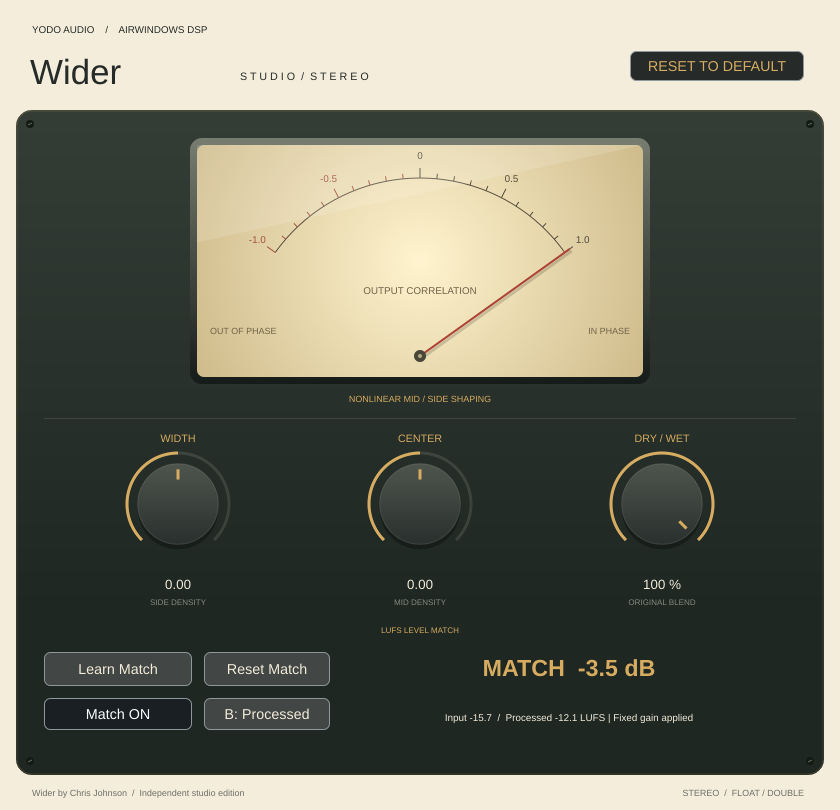
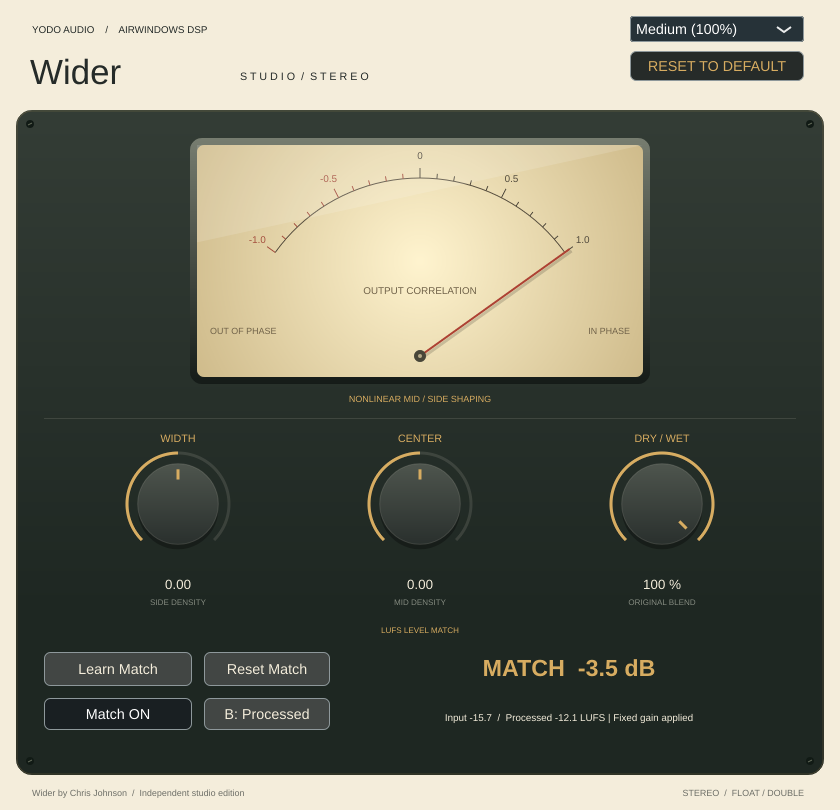
Add three session-persistent interface sizes

Changed region(s): [[0.7429, 0.0, 0.9595, 0.0617]]

diff --git a/tests/PluginChecks.cpp b/tests/PluginChecks.cpp
@@ -52,8 +52,8 @@ int main() {
     p->getParameters()[1]->setValueNotifyingHost(.5f);
     p->getParameters()[2]->setValueNotifyingHost(1.f);
     p->prepareToPlay(48000,512);
-    auto* learn=dynamic_cast<juce::Button*>(editor->findChildWithID("learnMatch"));
-    auto* reset=dynamic_cast<juce::Button*>(editor->findChildWithID("resetMatch"));
+    auto* learn=dynamic_cast<juce::Button*>(editor->getChildComponent(0)->findChildWithID("learnMatch"));
+    auto* reset=dynamic_cast<juce::Button*>(editor->getChildComponent(0)->findChildWithID("resetMatch"));
     if(!learn || !reset) return 10;
     learn->onClick();
     auto feed=[&](int blocks) {
@@ -107,7 +107,7 @@ int main() {
     if(!copy || std::abs(copy->getDoubleAttribute("matchDb")+3.521825)>.03) return 23;
     // Recreate the editor to verify the persisted adjustment is visible immediately.
     editor.reset(p->createEditor());
-    auto* display=dynamic_cast<juce::Label*>(editor->findChildWithID("matchReadout"));
+    auto* display=dynamic_cast<juce::Label*>(editor->getChildComponent(0)->findChildWithID("matchReadout"));
     if(!display || !display->getText().contains("-3.5 dB")) return 13;
     // Screenshot the real learned state before clearing it.
     juce::Image image(juce::Image::ARGB,editor->getWidth(),editor->getHeight(),true);
@@ -122,16 +122,16 @@ int main() {
     if(saved.getWidth()!=editor->getWidth() || saved.getHeight()!=editor->getHeight()) return 9;
     if(editor->getWidth()!=840 || editor->getHeight()!=810) return 5;
     int meters=0;
-    for(auto* child:editor->getChildren()) {
+    for(auto* child:editor->getChildComponent(0)->getChildren()) {
         if(child->getTitle().startsWith("Output correlation")) {
             ++meters;
             if(!editor->getLocalBounds().contains(child->getBounds())) return 6;
         }
     }
     if(meters!=1) return 7;
-    reset=dynamic_cast<juce::Button*>(editor->findChildWithID("resetMatch"));
+    reset=dynamic_cast<juce::Button*>(editor->getChildComponent(0)->findChildWithID("resetMatch"));
     reset->onClick();
-    auto* clearDisplay=dynamic_cast<juce::Label*>(editor->findChildWithID("matchReadout"));
+    auto* clearDisplay=dynamic_cast<juce::Label*>(editor->getChildComponent(0)->findChildWithID("matchReadout"));
     if(!clearDisplay || !clearDisplay->getText().contains("--")) return 19;
     feed(4);
     juce::MemoryBlock cleared; p->getStateInformation(cleared);
@@ -157,7 +157,7 @@ int main() {
     copy=juce::AudioProcessor::getXmlFromBinary(savedAgain.getData(),static_cast<int>(savedAgain.getSize()));
     if(copy->getBoolAttribute("hasMatch") || restored->getParameters()[4]->getValue()>.5f) return 17;
     int sliders=0;
-    for(auto* child:editor->getChildren()) if(auto* slider=dynamic_cast<juce::Slider*>(child)) {
+    for(auto* child:editor->getChildComponent(0)->getChildren()) if(auto* slider=dynamic_cast<juce::Slider*>(child)) {
         ++sliders;
         const bool mix=slider->getName()=="Dry / Wet";
         if(std::abs(slider->getMinimum()-(mix?0.:-1.))>1.e-6 || slider->getMaximum()!=1.) return 10;
@@ -167,9 +167,44 @@ int main() {
         if(std::abs(p->getParameters()[index]->getValue()-expected)>1.e-6f) return 11;
     }
     if(sliders!=3) return 12;
-    for(auto* child:editor->getChildren()) if(child->getComponentID()=="resetDefaults")
+    for(auto* child:editor->getChildComponent(0)->getChildren()) if(child->getComponentID()=="resetDefaults")
         if(auto* button=dynamic_cast<juce::TextButton*>(child)) button->onClick();
     for(auto* parameter:p->getParameters()) if(std::abs(parameter->getValue()-parameter->getDefaultValue())>1.e-6f) { std::cerr<<parameter->getName(40)<<": "<<parameter->getValue()<<" default "<<parameter->getDefaultValue()<<"\n"; return 25; }
+    // Exercise each size, render it, and recall the selection in a fresh processor.
+    auto* sizeChoice=dynamic_cast<juce::ComboBox*>(editor->getChildComponent(0)->findChildWithID("uiSize"));
+    if(!sizeChoice || sizeChoice->getNumItems()!=3 || sizeChoice->getSelectedId()!=2) return 26;
+    for(int id : {1,3,2}) {
+        sizeChoice->setSelectedId(id,juce::sendNotificationSync);
+        const float scale=id==1?.75f:id==3?1.25f:1.f;
+        const int width=juce::roundToInt(840*scale),height=juce::roundToInt(810*scale);
+        if(editor->getWidth()!=width || editor->getHeight()!=height) return 27;
+        auto* panel=editor->getChildComponent(0);
+        for(auto* child:panel->getChildren()) {
+            const auto bounds=editor->getLocalArea(panel,child->getBounds());
+            if(!editor->getLocalBounds().contains(bounds)) return 28;
+            const auto centre=editor->getLocalPoint(child,child->getLocalBounds().getCentre());
+            if(editor->getComponentAt(centre)==editor.get()) return 29;
+        }
+        juce::Image scaled(juce::Image::ARGB,width,height,true);
+        juce::Graphics graphics(scaled); editor->paintEntireComponent(graphics,true);
+        auto file=juce::File::getCurrentWorkingDirectory().getChildFile("ui-size-"+juce::String(id)+".png");
+        if(auto stream=file.createOutputStream()) {
+            stream->setPosition(0); stream->truncate();
+            if(!juce::PNGImageFormat().writeImageToStream(scaled,*stream)) return 30;
+        } else return 31;
+        juce::MemoryBlock sized; p->getStateInformation(sized);
+        restored->setStateInformation(sized.getData(),static_cast<int>(sized.getSize()));
+        std::unique_ptr<juce::AudioProcessorEditor> recalled(restored->createEditor());
+        if(recalled->getWidth()!=width || recalled->getHeight()!=height) return 32;
+        auto* recalledChoice=dynamic_cast<juce::ComboBox*>(recalled->getChildComponent(0)->findChildWithID("uiSize"));
+        if(!recalledChoice || recalledChoice->getSelectedId()!=id) return 33;
+    }
+    // Older sessions have no size property and open at the original dimensions.
+    copy->removeAttribute("uiSize");
+    juce::MemoryBlock oldSize; juce::AudioProcessor::copyXmlToBinary(*copy,oldSize);
+    restored->setStateInformation(oldSize.getData(),static_cast<int>(oldSize.getSize()));
+    std::unique_ptr<juce::AudioProcessorEditor> legacyEditor(restored->createEditor());
+    if(legacyEditor->getWidth()!=840 || legacyEditor->getHeight()!=810) return 34;
     editor.reset(); p->releaseResources();
     std::cout<<"Parameter state round-trip, stereo processing, and editor render passed\n";
 }

diff --git a/Source/Plugin.cpp b/Source/Plugin.cpp
@@ -121,6 +121,7 @@ public:
     juce::AudioProcessorEditor* createEditor() override;
     void getStateInformation(juce::MemoryBlock& dst) override {
         auto saved=state.copyState();
+        saved.setProperty("uiSize",uiSize.load(),nullptr);
         saved.setProperty("matchDb",matchDb.load(),nullptr);
         saved.setProperty("hasMatch",hasMatch.load(),nullptr);
         saved.setProperty("learnedInput",learnedInput.load(),nullptr);
@@ -130,6 +131,7 @@ public:
     void setStateInformation(const void* data,int size) override {
         if(auto xml=getXmlFromBinary(data,size); xml && xml->hasTagName(state.state.getType())) {
             auto restored=juce::ValueTree::fromXml(*xml);
+            uiSize=juce::jlimit(1,3,static_cast<int>(restored.getProperty("uiSize",2)));
             const auto db=static_cast<float>(restored.getProperty("matchDb",0.f));
             matchDb=std::isfinite(db)?juce::jlimit(-24.f,24.f,db):0.f;
             hasMatch=std::isfinite(db)&&static_cast<bool>(restored.getProperty("hasMatch",false));
@@ -154,6 +156,7 @@ public:
     std::atomic<bool> hasMatch{false},learning{false};
     std::atomic<int> command{0},learnResult{0};
     std::atomic<uint32_t> matchRevision{0};
+    std::atomic<int> uiSize{2};
 private:
     void timerCallback() override {
         // Mark custom learned state dirty on the message thread, even if the
@@ -244,9 +247,9 @@ private:
     float value=0;
 };
 
-class WiderEditor final : public juce::AudioProcessorEditor, private juce::Timer {
+class WiderPanel final : public juce::Component, private juce::Timer {
 public:
-    explicit WiderEditor(WiderProcessor& p) : AudioProcessorEditor(p), processor(p) {
+    explicit WiderPanel(WiderProcessor& p) : processor(p) {
         setLookAndFeel(&look);
         const char* ids[]={"width","center","mix"};
         const char* names[]={"Width","Center","Dry / Wet"};
@@ -294,10 +297,25 @@ public:
         enableButton.setTooltip("Enable or disable the learned gain without losing it.");
         abButton.setTooltip("Compare the original input with the processed output. Short fades prevent switching clicks.");
         refreshMatch();
+        addAndMakeVisible(sizeChoice);
+        sizeChoice.setComponentID("uiSize");
+        sizeChoice.setName("Interface size");
+        sizeChoice.setTooltip("Interface size: Small 75%, Medium 100%, or Large 125%.");
+        sizeChoice.addItem("Small (75%)",1);
+        sizeChoice.addItem("Medium (100%)",2);
+        sizeChoice.addItem("Large (125%)",3);
+        sizeChoice.setSelectedId(processor.uiSize.load(),juce::dontSendNotification);
+        sizeChoice.onChange=[this] {
+            processor.uiSize=sizeChoice.getSelectedId();
+            processor.updateHostDisplay(juce::AudioProcessor::ChangeDetails{}.withNonParameterStateChanged(true));
+            if(sizeChanged) sizeChanged();
+        };
         setSize(840,810); startTimerHz(30);
     }
-    ~WiderEditor() override { stopTimer(); setLookAndFeel(nullptr); }
+    ~WiderPanel() override { stopTimer(); setLookAndFeel(nullptr); }
+    std::function<void()> sizeChanged;
     void resized() override {
+        sizeChoice.setBounds(630,16,174,26);
         meter.setBounds(190,138,460,246);
         knobs[0].setBounds(68,437,220,160);
         knobs[1].setBounds(310,437,220,160);
@@ -359,10 +377,15 @@ private:
         } else text="Play a representative section, then Learn Match.";
         matchStatus.setText(text,juce::dontSendNotification);
     }
+    juce::ComboBox sizeChoice;
     juce::TextButton learnButton{"Learn Match"},resetButton{"Reset Match"},enableButton{"Match ON"},abButton{"B: Processed"};
     juce::Label readout,matchStatus;
     std::unique_ptr<juce::AudioProcessorValueTreeState::ButtonAttachment> enableAttachment,abAttachment;
     void timerCallback() override {
+        if(sizeChoice.getSelectedId()!=processor.uiSize.load()) {
+            sizeChoice.setSelectedId(processor.uiSize.load(),juce::dontSendNotification);
+            if(sizeChanged) sizeChanged();
+        }
         refreshMatch();
         auto seq=processor.meterSequence.load();
         idle=seq==lastSequence?juce::jmin(idle+1,16):0; lastSequence=seq;
@@ -379,6 +402,26 @@ private:
     uint32_t lastSequence=0;
     int idle=0;
     float shown=0;
+};
+// Scale a fixed logical panel so painting, controls, and hit testing share one transform.
+// The editor itself retains JUCE's independent host/HiDPI scale handling.
+class WiderEditor final : public juce::AudioProcessorEditor {
+public:
+    explicit WiderEditor(WiderProcessor& p) : AudioProcessorEditor(p), processor(p), panel(p) {
+        addAndMakeVisible(panel);
+        setResizable(false,false);
+        panel.sizeChanged=[this] { applySize(); };
+        applySize();
+    }
+private:
+    void applySize() {
+        const float scale=processor.uiSize.load()==1?.75f:processor.uiSize.load()==3?1.25f:1.f;
+        panel.setTransform(juce::AffineTransform::scale(scale));
+        panel.setBounds(0,0,840,810);
+        setSize(juce::roundToInt(840*scale),juce::roundToInt(810*scale));
+    }
+    WiderProcessor& processor;
+    WiderPanel panel;
 };
 juce::AudioProcessorEditor* WiderProcessor::createEditor() { return new WiderEditor(*this); }
 juce::AudioProcessor* JUCE_CALLTYPE createPluginFilter() { return new WiderProcessor; }

diff --git a/README.md b/README.md
@@ -23,6 +23,11 @@ to +1 (correlated). It observes a 300 ms exponential window, with display smooth
 it returns to zero on silence, bypass or stopped callbacks. Negative correlation
 can indicate mono cancellation; the meter is not a width control or a mono guarantee.
 
+Choose **Small (75%)**, **Medium (100%)**, or **Large (125%)** from the size menu
+at the top right. The complete interface scales proportionally; Medium retains the
+original size. The selection is saved per plugin instance with the session and
+survives closing and reopening the editor. Older sessions open at Medium.
+
 ## Original DSP
 
 `third_party/airwindows/WiderProc.cpp` is untouched and compiled directly by a thin
